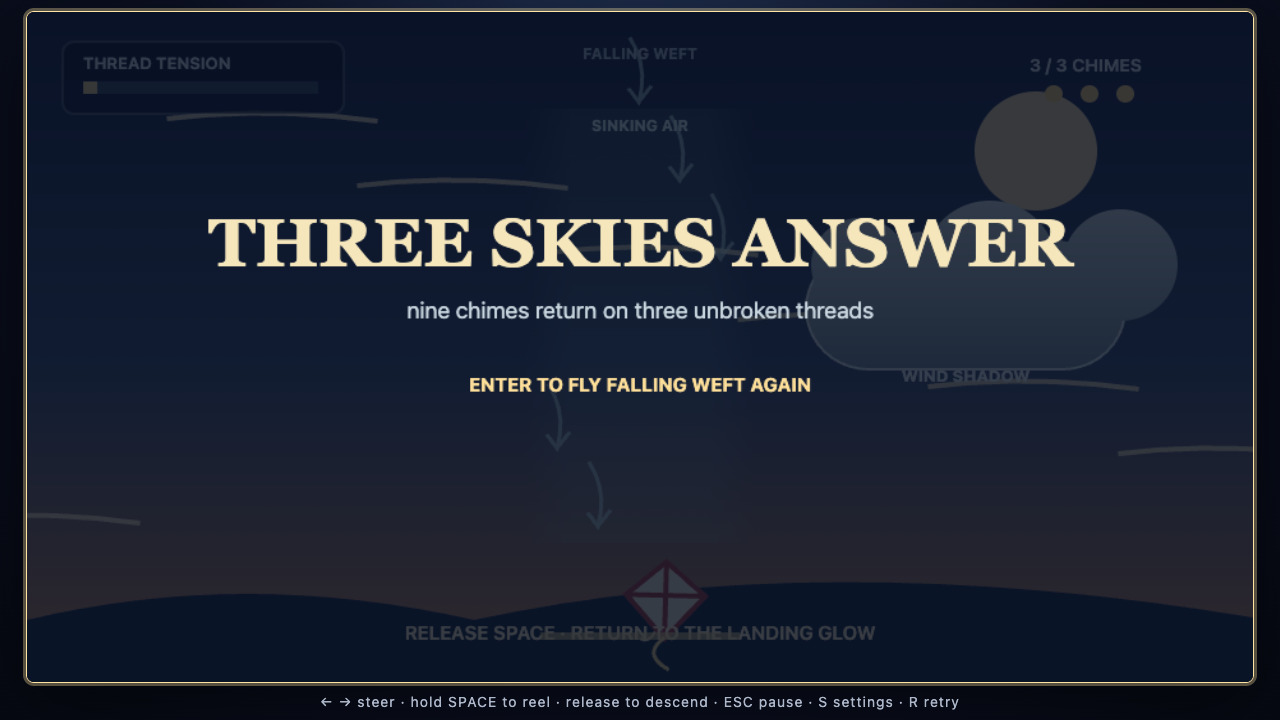
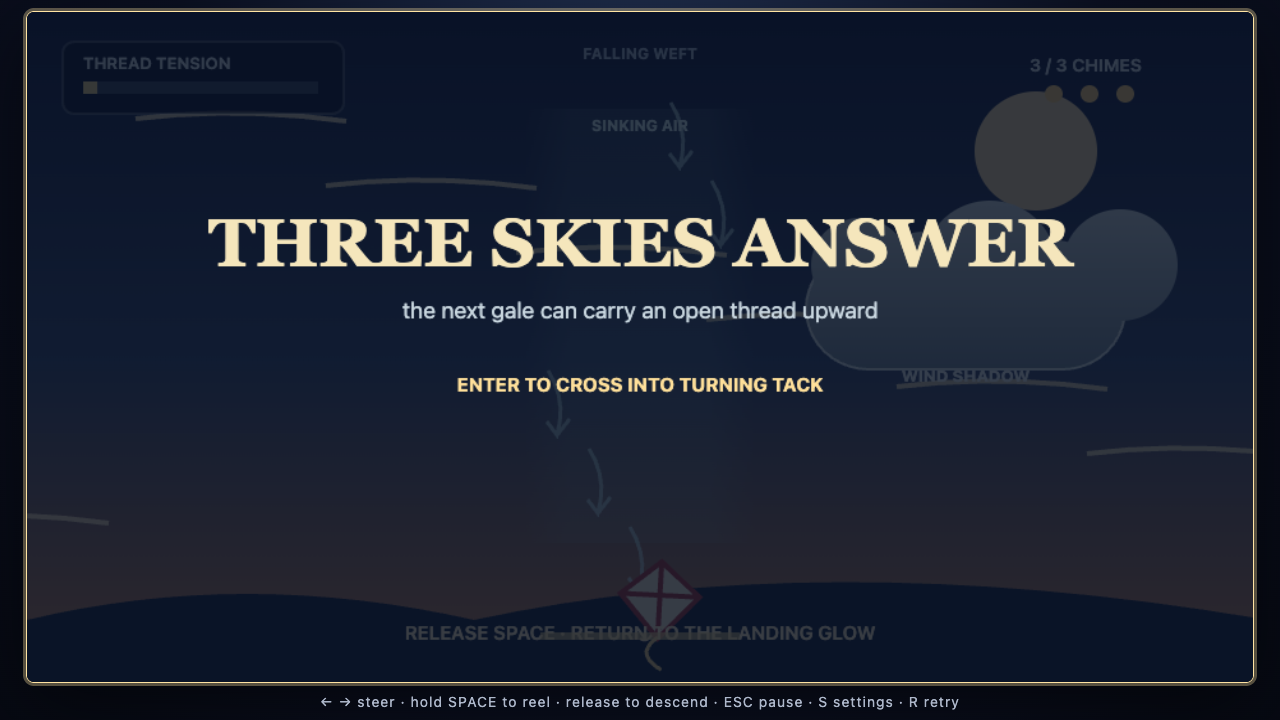
feat(ver11): add gale lift airspace

diff --git a/ver11/game/src/main.js b/ver11/game/src/main.js
@@ -1,5 +1,5 @@
 import "./style.css";
-import { WIDTH, HEIGHT, FIXED_STEP, AIRSPACES, accessibleStatus, airspaceFor, createGame, downdraftAt, isSheltered, retry, startGame, togglePause, update, windAt } from "./model.js";
+import { WIDTH, HEIGHT, FIXED_STEP, AIRSPACES, accessibleStatus, airspaceFor, createGame, downdraftAt, galeLiftAt, isSheltered, retry, startGame, togglePause, update, windAt } from "./model.js";
 import { DEFAULT_PREFERENCES, STORAGE_KEY, parsePreferences, serializePreferences, unlockAirspace } from "./preferences.js";
 
 const canvas = document.querySelector("#game");
@@ -149,6 +149,38 @@ function drawDowndrafts() {
   }
 }
 
+function drawGaleLifts() {
+  const wind = windAt(game.elapsed);
+  for (const lift of airspaceFor(game).galeLifts) {
+    const forecast = wind.direction === lift.direction && (wind.phase === "warning" || wind.phase === "gust");
+    const active = wind.phase === "gust" && wind.direction === lift.direction;
+    const gradient = ctx.createLinearGradient(lift.x, lift.y, lift.x + lift.width, lift.y);
+    gradient.addColorStop(0, "#e9cb7200");
+    gradient.addColorStop(0.28, active ? "#ffe99a42" : forecast ? "#e5d9a827" : "#9ba9be13");
+    gradient.addColorStop(0.72, active ? "#ffe99a42" : forecast ? "#e5d9a827" : "#9ba9be13");
+    gradient.addColorStop(1, "#e9cb7200");
+    ctx.fillStyle = gradient; ctx.fillRect(lift.x, lift.y, lift.width, lift.height);
+    ctx.save();
+    ctx.strokeStyle = active ? "#ffe89ddd" : forecast ? "#f0df9a99" : "#b2c2d355";
+    ctx.fillStyle = active ? "#fff1b8" : "#b9c6d0";
+    ctx.lineWidth = active ? 3 : 2;
+    ctx.setLineDash(active ? [] : [7, 8]);
+    const visualTime = preferences.reducedMotion ? 0 : game.elapsed;
+    for (let i = 0; i < 4; i++) {
+      const x = lift.x + 56 + i * 46;
+      const offset = active ? (visualTime * 96 + i * 74) % (lift.height - 60) : i * 82;
+      const y = lift.y + lift.height - 30 - offset;
+      ctx.beginPath(); ctx.moveTo(x - 10, y + 12); ctx.lineTo(x, y); ctx.lineTo(x + 10, y + 12); ctx.stroke();
+    }
+    ctx.setLineDash([]);
+    if (game.messageTime <= 0) {
+      ctx.textAlign = "center"; ctx.font = "700 12px system-ui";
+      ctx.fillText(`${lift.direction > 0 ? "→" : "←"} GALE LIFT`, lift.x + lift.width / 2, lift.y + lift.height - 14);
+    }
+    ctx.restore();
+  }
+}
+
 function drawWind() {
   const wind = windAt(game.elapsed);
   if (game.mode === "title") return;
@@ -199,7 +231,7 @@ function drawHud() {
   for (let i = 0; i < 3; i++) { ctx.fillStyle = game.ribbons[i] ? "#ffd57c" : "#53617a"; ctx.beginPath(); ctx.arc(804 + i * 28, 66, 7, 0, Math.PI * 2); ctx.fill(); }
   if (game.messageTime > 0) { ctx.textAlign = "center"; ctx.fillStyle = "#fff0c7"; ctx.font = "700 18px system-ui"; ctx.fillText(game.message, WIDTH / 2, 104); }
   ctx.textAlign = "center"; ctx.fillStyle = isSheltered(game) ? "#f4fbff" : "#aebed0"; ctx.font = "700 12px system-ui";
-  const condition = isSheltered(game) ? " · SHELTERED" : downdraftAt(game) ? " · SINKING" : "";
+  const condition = isSheltered(game) ? " · SHELTERED" : downdraftAt(game) ? " · SINKING" : galeLiftAt(game) ? " · LIFTING" : "";
   ctx.fillText(`${airspaceFor(game).name}${condition}`, WIDTH / 2, 38);
   if (game.ribbons.every(Boolean)) { ctx.textAlign = "center"; ctx.fillStyle = "#fff0c7"; ctx.font = "600 15px system-ui"; ctx.fillText("RELEASE SPACE · RETURN TO THE LANDING GLOW", WIDTH / 2, 506); }
   ctx.fillStyle = "#f6dc93aa"; ctx.fillRect(402, 500, 156, 6);
@@ -231,7 +263,7 @@ function drawSettings() {
 }
 
 function draw() {
-  drawSky(); drawWind(); drawDowndrafts(); drawClouds();
+  drawSky(); drawGaleLifts(); drawWind(); drawDowndrafts(); drawClouds();
   airspaceFor(game).ribbons.forEach((r, i) => drawRibbon(r, game.ribbons[i], i));
   if (game.mode !== "title") { drawKite(); drawHud(); }
   if (game.mode === "title") overlay("GALE THREAD", `continue from ${airspaceFor(game).name.toLowerCase()} · bring three chimes home`, "ENTER TO LAUNCH · S SETTINGS");
@@ -239,7 +271,8 @@ function draw() {
   if (game.mode === "lost") overlay("THREAD PARTED", "the gale took the line, not the lesson", "ENTER OR R TO TRY AGAIN");
   if (game.mode === "won" && game.airspace === 0) overlay("FIRST CHIMES RETURN", "the silver cloud waits beyond the open wind", "ENTER TO CROSS INTO CLOUD LEE");
   if (game.mode === "won" && game.airspace === 1) overlay("TWO SKIES ANSWER", "a falling seam divides the final sky", "ENTER TO CROSS INTO FALLING WEFT");
-  if (game.mode === "won" && game.airspace === AIRSPACES.length - 1) overlay("THREE SKIES ANSWER", "nine chimes return on three unbroken threads", "ENTER TO FLY FALLING WEFT AGAIN");
+  if (game.mode === "won" && game.airspace === 2) overlay("THREE SKIES ANSWER", "the next gale can carry an open thread upward", "ENTER TO CROSS INTO TURNING TACK");
+  if (game.mode === "won" && game.airspace === AIRSPACES.length - 1) overlay("FOUR SKIES ANSWER", "twelve chimes return on four unbroken threads", "ENTER TO FLY TURNING TACK AGAIN");
   if (settingsOpen) drawSettings();
 }
 

diff --git a/ver11/game/src/model.js b/ver11/game/src/model.js
@@ -13,6 +13,7 @@ export const AIRSPACES = [
     ],
     clouds: [],
     downdrafts: [],
+    galeLifts: [],
     gustPush: 125,
   },
   {
@@ -25,6 +26,7 @@ export const AIRSPACES = [
     ],
     clouds: [{ x: 335, y: 174, width: 290, height: 172 }],
     downdrafts: [],
+    galeLifts: [],
     gustPush: 168,
   },
   {
@@ -37,7 +39,24 @@ export const AIRSPACES = [
     ],
     clouds: [{ x: 610, y: 156, width: 250, height: 158 }],
     downdrafts: [{ x: 390, y: 78, width: 180, height: 350, sink: 58 }],
+    galeLifts: [],
     gustPush: 178,
+  },
+  {
+    name: "TURNING TACK",
+    subtitle: "meet the forecast gale and rise on an open thread",
+    ribbons: [
+      { x: 255, y: 365, name: "PORT CHIME" },
+      { x: 705, y: 230, name: "TACK CHIME" },
+      { x: 255, y: 96, name: "CROWN CHIME" },
+    ],
+    clouds: [],
+    downdrafts: [],
+    galeLifts: [
+      { x: 105, y: 72, width: 250, height: 382, direction: 1, lift: 148 },
+      { x: 605, y: 72, width: 250, height: 382, direction: -1, lift: 148 },
+    ],
+    gustPush: 188,
   },
 ];
 
@@ -59,6 +78,15 @@ export function downdraftAt(game) {
   return airspaceFor(game).downdrafts.find((draft) => (
     game.x >= draft.x && game.x <= draft.x + draft.width
     && game.y >= draft.y && game.y <= draft.y + draft.height
+  ));
+}
+
+export function galeLiftAt(game, wind = windAt(game.elapsed)) {
+  if (wind.phase !== "gust") return undefined;
+  return airspaceFor(game).galeLifts.find((lift) => (
+    lift.direction === wind.direction
+    && game.x >= lift.x && game.x <= lift.x + lift.width
+    && game.y >= lift.y && game.y <= lift.y + lift.height
   ));
 }
 
@@ -92,7 +120,12 @@ export function startGame(game) {
     const nextAirspace = game.mode === "won" && game.airspace < AIRSPACES.length - 1 ? game.airspace + 1 : game.airspace;
     const fresh = createGame(nextAirspace);
     const changedAirspace = game.airspace !== nextAirspace;
-    const entryMessages = ["HOLD SPACE TO CLIMB", "SILVER CLOUDS SHELTER THE THREAD", "SINKING AIR STEALS YOUR HEIGHT"];
+    const entryMessages = [
+      "HOLD SPACE TO CLIMB",
+      "SILVER CLOUDS SHELTER THE THREAD",
+      "SINKING AIR STEALS YOUR HEIGHT",
+      "MEET THE GALE · RELEASE TO RISE",
+    ];
     Object.assign(game, fresh, {
       mode: "playing",
       message: changedAirspace ? entryMessages[nextAirspace] : "HOLD SPACE TO CLIMB",
@@ -125,6 +158,7 @@ export function update(game, input, dt = FIXED_STEP) {
   const airspace = airspaceFor(game);
   const sheltered = isSheltered(game);
   const downdraft = downdraftAt(game);
+  const galeLift = galeLiftAt(game, wind);
   const steer = Math.max(-1, Math.min(1, input.steer || 0));
   const windPush = wind.phase === "gust" && !sheltered ? wind.direction * airspace.gustPush : 0;
   game.vx += (steer * 310 + windPush - game.vx * 3.8) * step;
@@ -136,6 +170,7 @@ export function update(game, input, dt = FIXED_STEP) {
     game.tension += (wind.phase === "gust" && !sheltered ? 0.58 : 0.13) * step;
   } else {
     game.y += (62 + (downdraft?.sink || 0)) * step;
+    game.y -= (galeLift?.lift || 0) * step;
     game.tension -= 0.52 * step;
   }
   game.y = Math.max(62, Math.min(488, game.y));
@@ -174,10 +209,11 @@ export function accessibleStatus(game) {
   if (game.mode === "paused") return "Paused. Press Escape to continue.";
   if (game.mode === "lost") return "Thread parted. Press Enter or R to retry.";
   if (game.mode === "won" && game.airspace < AIRSPACES.length - 1) return `All three chimes returned from ${airspaceFor(game).name}. Press Enter to cross into ${AIRSPACES[game.airspace + 1].name}.`;
-  if (game.mode === "won") return "All three chimes returned from Falling Weft. Three skies answer. Press Enter to fly again.";
+  if (game.mode === "won") return `All three chimes returned from ${airspaceFor(game).name}. Four skies answer. Press Enter to fly again.`;
   const wind = windAt(game.elapsed);
   const direction = wind.direction > 0 ? "right" : "left";
   const shelter = isSheltered(game) ? " Sheltered by cloud." : "";
   const sinking = downdraftAt(game) ? " In sinking air." : "";
-  return `Flying in ${airspaceFor(game).name}. ${game.ribbons.filter(Boolean).length} of 3 chimes. Tension ${Math.round(game.tension * 100)} percent. Wind ${wind.phase}, ${direction}.${shelter}${sinking}`;
+  const lifting = galeLiftAt(game, wind) ? " Riding gale lift." : "";
+  return `Flying in ${airspaceFor(game).name}. ${game.ribbons.filter(Boolean).length} of 3 chimes. Tension ${Math.round(game.tension * 100)} percent. Wind ${wind.phase}, ${direction}.${shelter}${sinking}${lifting}`;
 }

diff --git a/ver11/game/e2e/gale-thread.spec.js b/ver11/game/e2e/gale-thread.spec.js
@@ -34,14 +34,19 @@ async function pilot(page, targets, screenshotName) {
     const gusting = cyclePhase >= 4.2;
     const sheltered = (state.airspace === 1 && state.x >= 335 && state.x <= 625 && state.y >= 174 && state.y <= 346)
       || (state.airspace === 2 && state.x >= 610 && state.x <= 860 && state.y >= 156 && state.y <= 314);
+    const gustDirection = Math.floor(state.elapsed / 6) % 2 === 0 ? 1 : -1;
+    const inGaleLift = state.airspace === 3 && gusting && (
+      (gustDirection === 1 && state.x >= 105 && state.x <= 355 && state.y >= 72 && state.y <= 454)
+      || (gustDirection === -1 && state.x >= 605 && state.x <= 855 && state.y >= 72 && state.y <= 454)
+    );
     const needClimb = count < 3 && state.y > target.y + 5;
-    const shouldReel = needClimb && state.tension < (gusting && !sheltered ? 0.42 : 0.78);
+    const shouldReel = needClimb && !inGaleLift && state.tension < (gusting && !sheltered ? 0.42 : 0.78);
     if (reelHeld !== shouldReel) {
       if (shouldReel) await page.keyboard.down("Space"); else await page.keyboard.up("Space");
       reelHeld = shouldReel;
     }
     const inDowndraft = state.airspace === 2 && state.x >= 390 && state.x <= 570 && state.y >= 78 && state.y <= 428;
-    const evidenceCondition = state.airspace === 2 ? inDowndraft : sheltered && gusting;
+    const evidenceCondition = state.airspace === 3 ? inGaleLift : state.airspace === 2 ? inDowndraft : sheltered && gusting;
     if (screenshotName && evidenceCondition && !conditionEvidenceTaken) {
       await page.screenshot({ path: evidence(screenshotName) });
       conditionEvidenceTaken = true;
@@ -101,7 +106,37 @@ test("the third airspace crosses sinking air and completes the M2 route", async 
   const crossedDowndraft = await pilot(page, [{ x: 250, y: 372 }, { x: 735, y: 238 }, { x: 250, y: 102 }], "m2-falling-weft-sinking.png");
   expect(crossedDowndraft).toBe(true);
   await page.screenshot({ path: evidence("m2-falling-weft-won.png") });
-  await expect(page.locator("canvas")).toHaveAttribute("aria-label", /Three skies answer/);
+  await expect(page.locator("canvas")).toHaveAttribute("aria-label", /cross into TURNING TACK/i);
+});
+
+test("the fourth airspace rides a forecast gale upward and remains keyboard-completable", async ({ page }) => {
+  await page.goto("/");
+  await page.evaluate(() => localStorage.setItem("gale-thread:v11", JSON.stringify({
+    version: 1, unlockedAirspace: 3, volume: 0.75, reducedMotion: false,
+  })));
+  await page.reload();
+  await expect.poll(async () => (await snapshot(page))?.airspace).toBe(3);
+  await page.keyboard.press("Enter");
+  await expect.poll(async () => (await snapshot(page))?.mode).toBe("playing");
+  await page.screenshot({ path: evidence("m3-turning-tack-entry.png") });
+  await page.keyboard.down("ArrowLeft");
+  await page.keyboard.down("Space");
+  await expect.poll(async () => (await snapshot(page)).x).toBeLessThan(300);
+  await page.keyboard.up("ArrowLeft");
+  await expect.poll(async () => (await snapshot(page)).elapsed).toBeGreaterThan(3.75);
+  await page.keyboard.up("Space");
+  await expect(page.locator("canvas")).toHaveAttribute("aria-label", /Riding gale lift/i, { timeout: 2_000 });
+  const beforeLift = await snapshot(page);
+  await page.screenshot({ path: evidence("m3-turning-tack-lifting.png") });
+  await page.waitForTimeout(450);
+  const afterLift = await snapshot(page);
+  expect(afterLift.y).toBeLessThan(beforeLift.y - 20);
+  expect(afterLift.tension).toBeLessThan(beforeLift.tension);
+  await page.keyboard.press("r");
+  await expect.poll(async () => (await snapshot(page)).elapsed).toBeLessThan(0.5);
+  await pilot(page, [{ x: 255, y: 365 }, { x: 705, y: 230 }, { x: 255, y: 96 }]);
+  await page.screenshot({ path: evidence("m3-turning-tack-won.png") });
+  await expect(page.locator("canvas")).toHaveAttribute("aria-label", /Four skies answer/i);
 });
 
 test("settings and reached airspace persist across reloads", async ({ page }) => {

diff --git a/ver11/game/tests/model.test.js b/ver11/game/tests/model.test.js
@@ -1,6 +1,6 @@
 import test from "node:test";
 import assert from "node:assert/strict";
-import { AIRSPACES, RIBBONS, accessibleStatus, createGame, downdraftAt, isSheltered, retry, startGame, togglePause, update, windAt } from "../src/model.js";
+import { AIRSPACES, RIBBONS, accessibleStatus, createGame, downdraftAt, galeLiftAt, isSheltered, retry, startGame, togglePause, update, windAt } from "../src/model.js";
 
 function advance(game, seconds, input = {}) {
   const steps = Math.ceil(seconds * 60);
@@ -113,4 +113,38 @@ test("Falling Weft chimes and landing remain reachable", () => {
   }
   game.x = 480; game.y = 472; const events = update(game, {}, 1 / 60);
   assert.equal(game.mode, "won"); assert.ok(events.some((event) => event.type === "won"));
+});
+
+test("winning Falling Weft advances into Turning Tack", () => {
+  const game = createGame(2); startGame(game); game.mode = "won"; startGame(game);
+  assert.equal(game.mode, "playing"); assert.equal(game.airspace, 3);
+  assert.match(game.message, /RELEASE TO RISE/);
+});
+
+test("Turning Tack converts the forecast gust into safe lift while released", () => {
+  const lifted = createGame(3); startGame(lifted); lifted.elapsed = 4.3; lifted.x = 240; lifted.y = 330; lifted.tension = 0.7;
+  const outside = createGame(3); startGame(outside); outside.elapsed = 4.3; outside.x = 480; outside.y = 330; outside.tension = 0.7;
+  assert.ok(galeLiftAt(lifted)); assert.equal(galeLiftAt(outside), undefined);
+  advance(lifted, 0.5, { reel: false }); advance(outside, 0.5, { reel: false });
+  assert.ok(lifted.y < 300); assert.ok(outside.y > 350);
+  assert.ok(lifted.tension < 0.5);
+  assert.match(accessibleStatus(lifted), /Riding gale lift/);
+});
+
+test("Turning Tack only activates the lift facing the current gale", () => {
+  const rightGale = createGame(3); startGame(rightGale); rightGale.elapsed = 4.3; rightGale.x = 240; rightGale.y = 300;
+  const wrongTack = createGame(3); startGame(wrongTack); wrongTack.elapsed = 4.3; wrongTack.x = 720; wrongTack.y = 300;
+  assert.ok(galeLiftAt(rightGale)); assert.equal(galeLiftAt(wrongTack), undefined);
+  rightGale.elapsed = 10.3; rightGale.x = 720;
+  assert.ok(galeLiftAt(rightGale));
+});
+
+test("Turning Tack chimes and landing remain reachable", () => {
+  const game = createGame(3); startGame(game);
+  for (const ribbon of AIRSPACES[3].ribbons) {
+    game.x = ribbon.x; game.y = ribbon.y; update(game, {}, 1 / 60);
+  }
+  game.x = 480; game.y = 472; const events = update(game, {}, 1 / 60);
+  assert.equal(game.mode, "won"); assert.ok(events.some((event) => event.type === "won"));
+  assert.match(accessibleStatus(game), /Four skies answer/);
 });

diff --git a/ver11/README.md b/ver11/README.md
@@ -7,7 +7,8 @@
 - M0 白紙企画比較・独立性確認: 完了
 - M1 中核縦切り: 完了。1空域、突風予告、張力、3片、帰還、切断、再挑戦を実装・検証済み
 - M2 段階導入: 完了。3空域、雲帯、下降気流、設定、進行保存を実装済み
-- 単体19/19、構文検査、production build、Chrome E2E 6/6に合格
+- M3 規則の発展: 進行中。第4空域で、予告方向へ先回りして突風を安全な上昇へ変える風受け帯を実装済み
+- 単体23/23、構文検査、production build、Chrome E2E 7/7に合格
 
 ## 起動
 
@@ -17,9 +18,9 @@ npm install
 npm run dev
 ```
 
-Enterで開始する。左右キーまたはA/Dで凧を操り、Spaceを押している間は糸を巻いて上昇する。Spaceを離すと糸を緩めて下降する。空の帯に表示される突風予告中に進路を整え、突風が吹いている間は巻き続けない。三つの風鈴片を集めたら、地上中央の着地点へ降りる。第2空域では銀色の雲帯へ入ると突風を遮れる。第3空域では下降気流の矢印帯を横切る間、上昇が鈍り、糸を緩めると高度を速く失う。Escapeでポーズ、Rで再挑戦する。Sで設定を開き、矢印キーで音量と動き軽減を変更する。設定と到達済み空域はブラウザへ自動保存され、次回は最も先の空域から再開する。
+Enterで開始する。左右キーまたはA/Dで凧を操り、Spaceを押している間は糸を巻いて上昇する。Spaceを離すと糸を緩めて下降する。空の帯に表示される突風予告中に進路を整え、突風が吹いている間は巻き続けない。三つの風鈴片を集めたら、地上中央の着地点へ降りる。第2空域では銀色の雲帯へ入ると突風を遮れる。第3空域では下降気流の矢印帯を横切る間、上昇が鈍り、糸を緩めると高度を速く失う。第4空域では予告矢印と同じ向きの風受け帯へ先回りし、突風中にSpaceを離すと張力を逃がしながら上昇できる。Escapeでポーズ、Rで再挑戦する。Sで設定を開き、矢印キーで音量と動き軽減を変更する。設定と到達済み空域はブラウザへ自動保存され、次回は最も先の空域から再開する。
 
-`npm run verify`で規則テスト、構文検査、production build、Chrome E2Eをまとめて実行する。E2Eは実キー入力でポーズ、糸切断、再挑戦、全3空域の9片回収、雲帯利用、下降気流横断、着地に加え、設定・進行の再読込と破損保存の復旧を検証する。
+`npm run verify`で規則テスト、構文検査、production build、Chrome E2Eをまとめて実行する。E2Eは実キー入力でポーズ、糸切断、再挑戦、全4空域の12片回収、雲帯利用、下降気流横断、風受け上昇、着地に加え、設定・進行の再読込と破損保存の復旧を検証する。
 
 ## 独立性
 

diff --git a/ver11/docs/status.md b/ver11/docs/status.md
@@ -5,7 +5,7 @@
 ## 現在状態
 
 - 現在版: v11.0 (`ver11/`)
-- 段階: M0・M1・M2完了。全3空域、設定、進行保存を検証済み
+- 段階: M0・M1・M2完了、M3進行中。第4空域まで、設定、進行保存を検証済み
 - 過去版変更: v10.1最終批評のみ。既存の未コミット`ver07.1/`差分を保持
 
 ## 完成条件
@@ -35,11 +35,15 @@
 - version付きlocalStorageへ設定と最遠到達空域を保存し、次回はその空域から再開する。JSON破損、型・範囲不正、storage例外は既定値へ戻し、プレイを継続する。
 - 単体19/19、構文検査、production build、Chrome E2E 6/6に合格した。全3空域通しに加え、実キー設定、再読込、到達空域保存、破損復旧を確認した。
 - `m2-settings.png`を目視し、1280×720で選択枠、音量値、動き軽減値、操作説明が欠けや重なりなく判別できることを確認した。M2を完了する。
+- 第4空域「TURNING TACK」を追加した。左右の風受け帯は対応する向きの突風中だけ発動し、Spaceを離すと張力を減らしながら上昇する。予告方向への先回りにより、突風を避ける対象から位置取りの報酬へ発展させた。
+- 非発動・予告・発動を破線、薄い金、実線と上向き山形で区別し、HUDの`LIFTING`とaccessible nameへ同じ判定を接続した。左低空、右中空、左高空の片配置が交互の予告方向を使わせる。
+- 単体23/23、構文検査、production build、Chrome E2E 7/7に合格した。実キー入力で風受け上昇時に高度が20px超上がり、同時に張力が低下すること、第4空域の3片回収と最終着地を確認した。
+- `m3-turning-tack-entry.png`、`m3-turning-tack-lifting.png`、`m3-turning-tack-won.png`を目視し、左右帯、予告方向、上向き山形、凧、糸、片、`LIFTING`、結果表示が判別できることを確認した。高空片に近かった帯ラベルは下端へ移した。
 
 ## 未解決課題
 
-- M3の後半3空域と終演は未実装。
+- M3の第5・第6空域と終演は未実装。
 
 ## 次の最優先作業
 
-M3第4空域を実装する。既存の雲帯・下降気流とは異なり、予告された突風を位置取りの利益へ変える規則を一つだけ導入し、片配置、規則テスト、実キー通し、画面証拠まで完成させる。
+M3第5空域を実装する。張力が指定範囲にある時だけ通過できる音門を一規則として導入し、緩め続ける安全策と、門へ向けて適度な張力を保つ経路判断を競合させる。片配置、規則テスト、実キー通し、画面証拠まで完成させる。

diff --git a/ver11/docs/log.md b/ver11/docs/log.md
@@ -33,3 +33,10 @@
 - version付きlocalStorageへ設定と最遠到達空域を保存する。再読込時は最遠空域から再開し、不正JSON、型・範囲不正、storage例外は既定値へ安全に戻す。
 - 単体19/19、構文検査、production buildに合格した。Chrome E2Eは既存の全3空域通し4件に、設定・再読込と破損復旧2件を加え、合計6/6に合格した。
 - `m2-settings.png`を目視し、選択枠、100%音量、動き軽減ON、操作説明が1280×720内で明瞭なことを確認した。M2を完了し、次は突風を利益へ変える第4空域へ進む。
+
+## 2026-11-06 — M3 第4空域 TURNING TACK
+
+- 左右に方向付きの風受け帯を置き、対応する突風中にSpaceを離すと、張力を逃がしながら下降を上回る揚力を得る規則を追加した。予告方向へ先回りすることで、従来は避けるだけだった突風を高度の利益へ変えられる。
+- 風受け帯を空域データ化し、非発動、予告、発動を破線・薄い金・実線と上向き山形で描き分けた。HUDの`LIFTING`とaccessible nameも同じ判定を使う。
+- 単体23/23、構文検査、production build、Chrome E2E 7/7に合格した。実キー入力で右向き突風の風受けへ入り、Space解放中に高度が20px超上がりつつ張力が下がること、第4空域の3片回収と着地を確認した。
+- `m3-turning-tack-entry.png`、`m3-turning-tack-lifting.png`、`m3-turning-tack-won.png`を目視した。高空片に近かった風受けラベルを帯の下端へ移し、予告方向、上向き山形、凧、糸、片、結果表示を重なりなく判別できる状態にした。次は張力そのものを位置取りの条件へ変える第5空域を作る。

diff --git a/ver11/docs/01-game-design.md b/ver11/docs/01-game-design.md
@@ -43,3 +43,10 @@
 - Sで設定を開き、上下で項目、左右またはEnterで値を変更する。プレイ中に開く場合は安全にポーズする。
 - 音量は0〜100%の5段階。動き軽減は風線、下降矢印、片の脈動を静止させるが、風のフェーズやゲーム規則は変えない。
 - 新しい空域へ入った時点で到達状況を保存し、再訪時は最も先の到達済み空域から始める。
+
+## M3 第4空域: TURNING TACK
+
+- 左右に、対応する向きの突風だけを上昇へ変える風受け帯を置く。右向き予告なら左帯、左向き予告なら右帯へ先回りする。
+- 発動中にSpaceを離すと、張力を減らしながら下降より強い揚力を得る。巻けば通常どおり上昇するが突風張力を受けるため、安全な利益にはならない。
+- 左低空、右中空、左高空へ片を置き、交互の予告方向と経路を結びつける。通常の巻き上げでも到達可能にしつつ、風受けを使うと張力と高度を同時に改善できる。
+- 非発動帯は破線、次に発動する帯は予告中に明るくし、発動中は上向き山形、金色の帯、HUDの`LIFTING`、動的accessible nameで伝える。

diff --git a/ver11/docs/03-technical-design.md b/ver11/docs/03-technical-design.md
@@ -12,7 +12,7 @@
 
 ゲーム状態に経過時間、風フェーズ、位置、速度、張力、回収状態を保持する。乱数はM1で使わない。ブラウザ側は最大追いつき回数を制限し、背景復帰時に時間を捨てる。
 
-空域ごとの片配置、雲矩形、下降気流矩形、突風の横力は`AIRSPACES`へデータとして置く。雲矩形内では突風の横力と巻き上げ時の追加張力を無効化する。下降気流矩形内では上昇速度から下降速度を差し引き、解放中の下降へ加算する。同じ領域判定を規則、描画、accessible nameから参照する。
+空域ごとの片配置、雲矩形、下降気流矩形、方向付き風受け矩形、突風の横力は`AIRSPACES`へデータとして置く。雲矩形内では突風の横力と巻き上げ時の追加張力を無効化する。下降気流矩形内では上昇速度から下降速度を差し引き、解放中の下降へ加算する。風受け矩形は突風方向が一致する間だけ有効になり、解放中の下降速度を上回る揚力を加える。同じ領域判定を規則、描画、HUD、accessible nameから参照する。
 
 ## 座標
 

diff --git a/ver11/docs/04-quality-plan.md b/ver11/docs/04-quality-plan.md
@@ -28,6 +28,13 @@
 - キーボードフォーカス、動的名称、音量、動き軽減、保存破損復旧
 - 外部runtimeのない静的配布物とchecksum
 
+## M3 第4空域ゲート
+
+- 第3空域から第4空域へ遷移し、到達状況が保存される。
+- 方向が一致する突風中だけ風受け帯が有効になり、Space解放中に張力を減らしながら上昇することが規則テストに現れる。
+- 実キー入力で風受け上昇を行い、3片回収と着地まで到達する。
+- 入口、発動中、勝利を目視し、左右帯、予告方向、上向き山形、凧、糸、片、`LIFTING`が判別できる。
+
 ## 未測定として残すもの
 
 実スピーカー、実スクリーンリーダー、低性能物理端末、人間の初見操作感。

diff --git a/ver11/docs/02-art-and-audio-direction.md b/ver11/docs/02-art-and-audio-direction.md
@@ -8,6 +8,7 @@
 - 糸は張力に応じて象牙色から朱へ変わり、HUDを見なくても危険を読める。
 - 風鈴片は空洞の真鍮片として、回収時に円環が広がる。
 - 第2空域の雲帯は不透明な銀青の塊と白い輪郭で描き、背後の風線を隠して遮風を直接見せる。
+- 第4空域の風受け帯は淡い金の縦帯と上向き山形で描く。非発動時は破線、予告時は薄い金、発動時は実線と強い発光に変え、突風の横筆線と上昇方向を同時に読めるようにする。
 
 ## 音
 
